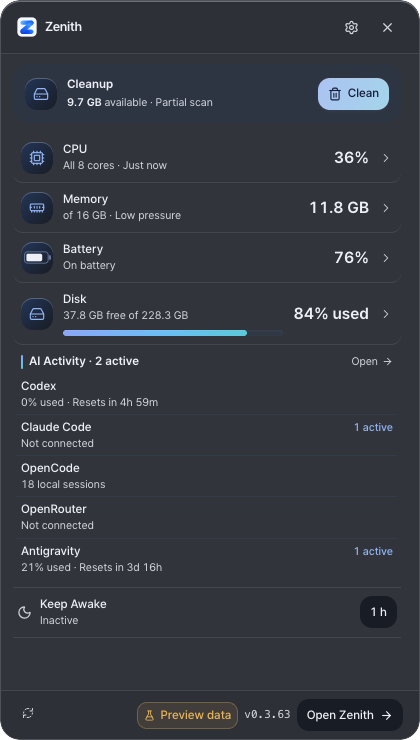
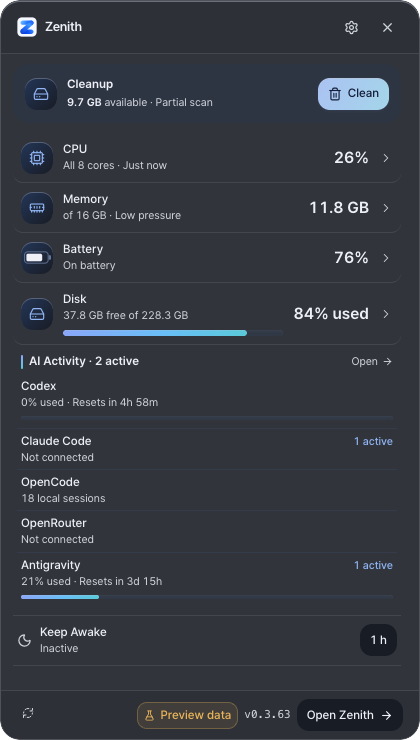
fix(ai): keep streamed usage fresh and add quick-panel gauges

diff --git a/src/routes/quick/QuickPanel.svelte b/src/routes/quick/QuickPanel.svelte
@@ -25,6 +25,7 @@
     projectAiProviders,
     projectQuickAiRows,
     formatQuickProviderUsage,
+    quickProviderUsageWindow,
   } from '../../lib/utils/quickPanel';
   import {
     isTauri,
@@ -35,6 +36,7 @@
   } from '../../lib/utils/tauri';
   import { APP_VERSION, formatVersion } from '../../lib/utils/version';
   import Button from '../../lib/components/Button.svelte';
+  import ProgressBar from '../../lib/components/ProgressBar.svelte';
   import BrandIcon from '../../lib/components/BrandIcon.svelte';
   import QuickMetricRow from '../../lib/components/metrics/QuickMetricRow.svelte';
   import CleanResultModal from '../../lib/components/CleanResultModal.svelte';
@@ -157,6 +159,7 @@
   let activeCount = $derived(agentSummary?.active_count ?? 0);
 
   let stopFreshness: (() => void) | undefined;
+  let stopUsageRefresh: (() => void) | undefined;
   let metricsPolling = false;
   let panelShell: HTMLDivElement;
   let panelHeader: HTMLDivElement;
@@ -178,6 +181,8 @@
     await platformCapabilitiesStore.load(true);
     await platformContextStore.load(true);
     if (!panelActive) return;
+    stopUsageRefresh?.();
+    stopUsageRefresh = undefined;
     if (awakeAvailable) void awakeStore.refresh();
     if (hasSection('storage') && cleanupAvailable) void memoryStore.refreshDisk();
     if (hasSection('memory') && memoryAvailable) memoryStore.startPolling(3000);
@@ -191,6 +196,7 @@
       settings.quick_panel_ai_providers.length > 0
     ) {
       void usageStore.refreshIfStale();
+      stopUsageRefresh = usageStore.observeAutoRefresh();
     }
     if (hasSection('agent_activity') && aiAvailable) {
       void tauriGetAgentQuickSummary().then((summary) => {
@@ -211,6 +217,8 @@
     panelActive = false;
     if (usageClock !== undefined) clearInterval(usageClock);
     usageClock = undefined;
+    stopUsageRefresh?.();
+    stopUsageRefresh = undefined;
     stopFreshness?.();
     stopFreshness = undefined;
     if (hasSection('memory')) memoryStore.stopPolling();
@@ -608,6 +616,9 @@
       {:else}
         <ul class="divide-y divide-border">
           {#each visibleAiRows as row (row.id)}
+            {@const loading = row.provider ? usageStore.isProviderLoading(row.provider.id) : false}
+            {@const stale = row.provider ? usageStore.isProviderUsageStale(row.provider.id, usageNow) : false}
+            {@const usageWindow = row.provider ? quickProviderUsageWindow(row.provider, loading, stale) : null}
             <li class="min-w-0 px-1 py-1">
               <div class="min-w-0">
                 <div class="flex min-w-0 items-baseline justify-between gap-2">
@@ -618,8 +629,6 @@
                 </div>
                 <p class="text-caption leading-snug text-muted-foreground">
                   {#if row.provider}
-                    {@const loading = usageStore.isProviderLoading(row.provider.id)}
-                    {@const stale = !!usageStore.snapshot && usageNow / 1000 - usageStore.snapshot.fetched_at > 300}
                     <span class="inline-flex items-center gap-1.5">
                       {#if loading}<DeletingDots size="xs" class="text-primary" />{/if}
                       <span>{formatQuickProviderUsage(row.provider, loading, stale)}</span>
@@ -638,6 +647,20 @@
                     {row.sessions.length} observed session{row.sessions.length === 1 ? '' : 's'}
                   {/if}
                 </p>
+                {#if usageWindow}
+                  <div
+                    class="mt-1.5 mb-1"
+                    role="meter"
+                    aria-label={`${row.name} ${usageWindow.label} usage`}
+                    aria-valuemin="0"
+                    aria-valuemax="100"
+                    aria-valuenow={usageWindow.used_percent}
+                    aria-valuetext={`${usageWindow.used_percent}% used`}
+                    title={`${usageWindow.label} · ${usageWindow.used_percent}% used`}
+                  >
+                    <ProgressBar value={usageWindow.used_percent} height="h-1" />
+                  </div>
+                {/if}
               </div>
             </li>
           {/each}

diff --git a/src/test/usageStore.test.ts b/src/test/usageStore.test.ts
@@ -136,6 +136,45 @@ describe('AI usage auto-refresh while visible', () => {
     stop();
   });
 
+  it('marks streamed providers fresh independently while a slower provider is pending', async () => {
+    const store = new UsageStore();
+    store.snapshot = autoSnapshot(500);
+    let emit!: (value: AiProviderUsage) => void;
+    let complete!: (value: AiUsageSnapshot) => void;
+    vi.mocked(tauriGetAiUsage).mockImplementation((_force, onProvider) => {
+      emit = onProvider!;
+      return new Promise(resolve => { complete = resolve; });
+    });
+    const pending = store.refresh();
+    expect(store.isProviderUsageStale('codex')).toBe(true);
+    emit(provider('codex', 'Codex'));
+    expect(store.isProviderLoading('codex')).toBe(false);
+    expect(store.isProviderUsageStale('codex')).toBe(false);
+    expect(store.isProviderLoading('antigravity')).toBe(true);
+    expect(store.isProviderUsageStale('antigravity')).toBe(true);
+    expect(store.snapshot?.fetched_at).toBe(500);
+    complete(autoSnapshot(1000));
+    await pending;
+    expect(store.isProviderUsageStale('antigravity')).toBe(false);
+    await vi.advanceTimersByTimeAsync(300_001);
+    expect(store.isProviderUsageStale('codex')).toBe(true);
+  });
+
+  it('retains only received provider freshness if aggregate collection fails', async () => {
+    const store = new UsageStore();
+    store.snapshot = autoSnapshot(500);
+    vi.mocked(tauriGetAiUsage).mockImplementation(async (_force, onProvider) => {
+      onProvider?.(provider('codex', 'Codex'));
+      throw new Error('Collection interrupted');
+    });
+    await store.refresh();
+    expect(store.error).toContain('Collection interrupted');
+    expect(store.isProviderUsageStale('codex')).toBe(false);
+    expect(store.isProviderUsageStale('antigravity')).toBe(true);
+    await vi.advanceTimersByTimeAsync(300_001);
+    expect(store.isProviderUsageStale('codex')).toBe(true);
+  });
+
   it('shares one timer across subscribers and stops after the last dispose', async () => {
     const store = new UsageStore();
     store.snapshot = autoSnapshot(1000);

diff --git a/src/lib/stores/usage.svelte.ts b/src/lib/stores/usage.svelte.ts
@@ -11,6 +11,7 @@ import { observeWhileVisible } from '../utils/visiblePolling';
 
 const USAGE_CACHE_TTL_MS = 60_000;
 const USAGE_RECHECK_INTERVAL_MS = 10_000;
+const USAGE_DISPLAY_MAX_AGE_MS = 300_000;
 
 const PROVIDER_SHELLS: readonly AiProviderUsage[] = [
   providerShell('codex', 'Codex', 'ChatGPT OAuth'),
@@ -87,6 +88,7 @@ export class UsageStore {
   private refreshPromise: Promise<void> | null = null;
   private autoRefreshSubscribers = 0;
   private stopAutoRefresh: (() => void) | null = null;
+  private providerReceivedAt = $state<Partial<Record<ProviderId, number>>>({});
 
   /**
    * Visible-only auto-refresh (#128): revalidate the TTL cache while a
@@ -124,6 +126,11 @@ export class UsageStore {
 
   isProviderLoading(id: ProviderId | string): boolean {
     return this.isLoading && this.loadingProviders.includes(id as ProviderId);
+  }
+
+  isProviderUsageStale(id: ProviderId, now = Date.now()): boolean {
+    const receivedAt = this.providerReceivedAt[id] ?? (this.snapshot?.fetched_at ?? 0) * 1000;
+    return now - receivedAt > USAGE_DISPLAY_MAX_AGE_MS;
   }
 
   async refresh(force = false) {
@@ -181,6 +188,9 @@ export class UsageStore {
     try {
       this.snapshot = await tauriGetAiUsage(force, (provider) => {
         const canonicalId: ProviderId = (provider.id as string) === 'grok' ? 'grok-build' : (provider.id as ProviderId);
+        // A completed provider must not inherit the old aggregate timestamp
+        // while another provider is still being collected.
+        this.providerReceivedAt[canonicalId] = Date.now();
         this.loadingProviders = this.loadingProviders.filter((id) => id !== canonicalId);
         const normalizedProvider: AiProviderUsage = {
           ...provider,
@@ -200,6 +210,7 @@ export class UsageStore {
           }
         }
       });
+      this.providerReceivedAt = {};
     } catch (error: any) {
       this.error = error?.toString() || 'Could not load AI usage';
     } finally {

diff --git a/src/test/quickPanel.test.ts b/src/test/quickPanel.test.ts
@@ -18,6 +18,7 @@ import {
   projectAiProviders,
   projectQuickAiRows,
   formatQuickProviderUsage,
+  quickProviderUsageWindow,
   formatQuickReset,
   quickPanelHeight,
   reorderOrdered,
@@ -129,7 +130,21 @@ describe('compact AI summary', () => {
     expect(rows[0].sessions).toHaveLength(1);
     expect(formatQuickProviderUsage(provider, false)).toContain('17% used');
     expect(formatQuickProviderUsage(provider, true)).toBe('Updating usage…');
-    expect(formatQuickProviderUsage(provider, false, true)).toBe('Usage out of date');
+    expect(formatQuickProviderUsage(provider, false, true)).toBe('Usage needs refresh');
+    expect(quickProviderUsageWindow(provider, false)?.used_percent).toBe(17);
+    expect(quickProviderUsageWindow(provider, true)).toBeNull();
+    expect(quickProviderUsageWindow(provider, false, true)).toBeNull();
+    expect(quickProviderUsageWindow({ ...provider, connected: false }, false)).toBeNull();
+    expect(quickProviderUsageWindow({ ...provider, installed: false }, false)).toBeNull();
+    expect(quickProviderUsageWindow({ ...provider, windows: [] }, false)).toBeNull();
+    for (const [input, expected] of [[0, 0], [-10, 0], [150, 100], [17.4, 17]]) {
+      const measured = { ...provider, windows: [{ ...provider.windows[0], used_percent: input }] };
+      expect(quickProviderUsageWindow(measured, false)?.used_percent).toBe(expected);
+      expect(formatQuickProviderUsage(measured, false)).toContain(`${expected}% used`);
+    }
+    const invalid = { ...provider, windows: [{ ...provider.windows[0], used_percent: Number.NaN }] };
+    expect(quickProviderUsageWindow(invalid, false)).toBeNull();
+    expect(formatQuickProviderUsage(invalid, false)).toBe('Usage unavailable');
   });
 
   it('formats long and invalid reset intervals with explicit units', () => {

diff --git a/src/lib/utils/quickPanel.ts b/src/lib/utils/quickPanel.ts
@@ -168,16 +168,22 @@ export function formatQuickReset(resetsAt: number | null | undefined, now = Math
   return `Resets in ${days}d${hours ? ` ${hours}h` : ''}`;
 }
 
+export function quickProviderUsageWindow(provider: AiProviderUsage, loading: boolean, stale = false) {
+  if (loading || stale || !provider.installed || !provider.connected) return null;
+  const window = provider.windows.find(entry => entry.used_percent != null && Number.isFinite(entry.used_percent));
+  if (window?.used_percent == null) return null;
+  return { ...window, used_percent: Math.round(Math.min(100, Math.max(0, window.used_percent))) };
+}
+
 export function formatQuickProviderUsage(provider: AiProviderUsage, loading: boolean, stale = false): string {
   if (loading) return 'Updating usage…';
-  if (stale) return 'Usage out of date';
+  if (stale) return 'Usage needs refresh';
   if (!provider.installed) return 'Not installed';
   if (!provider.connected) return 'Not connected';
 
-  const window = provider.windows.find((entry) => entry.used_percent != null);
-  if (window?.used_percent != null) {
-    const percent = Math.round(Math.min(100, Math.max(0, window.used_percent)));
-    return `${percent}% used · ${formatQuickReset(window.resets_at)}`;
+  const window = quickProviderUsageWindow(provider, loading, stale);
+  if (window) {
+    return `${window.used_percent}% used · ${formatQuickReset(window.resets_at)}`;
   }
   if (provider.summary.local_sessions != null) return `${provider.summary.local_sessions} local sessions`;
   if (provider.summary.usage_usd != null) return `$${provider.summary.usage_usd.toFixed(2)} local usage`;

diff --git a/docs/validation/issue-311/README.md b/docs/validation/issue-311/README.md
@@ -13,7 +13,7 @@
 - `cargo clippy --workspace --all-targets -- -D warnings`: passed.
 - `just check-architecture`: passed.
 - `pnpm check`: zero errors and warnings.
-- `pnpm test -- --run`: 42 files, 400 tests passed.
+- `pnpm test -- --run`: 42 files, 402 tests passed, including the AI freshness follow-up regressions.
 - `pnpm build`: passed.
 - `just generate-bindings`: passed; generated contract comments updated.
 - Scan benchmark baseline export and drift check: passed, no baseline changes.
@@ -30,6 +30,8 @@ Screenshots use deterministic preview data, not the live disk measurement below.
 - Storage Clean selected prepares a backend plan and executes a plan without confirmation requirements directly. Stateful plans retain the confirmation branch.
 - Interaction dispatch was verified with browser-only method stubs; no native deletion was triggered by browser automation.
 - Automated contrast checks cover both action-gradient endpoints (4.5:1 text contrast) and all three gauge stops (3:1 track contrast) in both themes.
+- Follow-up: AI Activity rows now display accessible usage meters using the same percentage window as their text. Zero usage retains an empty track; session-only, disconnected, loading, stale, and non-finite data do not produce a meter. Helper regressions cover clamping and missing data. Updated light/dark screenshots and a 375 x 740 check confirm two measured-provider meters without horizontal overflow or footer overlap.
+- Freshness follow-up: a streamed Codex result no longer inherits an old aggregate timestamp while another provider is pending. Fake-timer tests cover slow-provider completion and aggregate failure without marking untouched providers fresh. Quick Panel now subscribes to the existing visible-only TTL refresh and disposes it on hide; stale copy reads `Usage needs refresh`, not quota exhaustion.
 - Native glass tokens, translucency, and blur rules are unchanged. Browser evidence does not validate native macOS compositing.
 
 ![Quick Panel, light](quick-light.png)

diff --git a/DESIGN.md b/DESIGN.md
@@ -452,6 +452,14 @@ a quieter blue-to-cyan blend; labels and numbers remain solid, readable colors.
 Quick Panel text uses zero tracking and tabular numerals; metric values use
 medium weight. None of these accents changes native glass tint or opacity.
 
+Quick Panel AI rows add a compact usage gauge beneath their usage/reset text.
+The gauge and text refer to the same first finite percentage window. Loading,
+stale, disconnected, unavailable, and session-only rows never imply a quota.
+Freshness follows each streamed provider independently until the aggregate
+snapshot completes. Visible Quick Panels subscribe to the shared TTL refresh;
+hiding the panel disposes that subscription. Stale copy asks for a refresh and
+must not suggest that the account has exhausted its quota.
+
 ### Storage
 
 - Cleanup reads in task order: scan summary, freshness, category selection,
